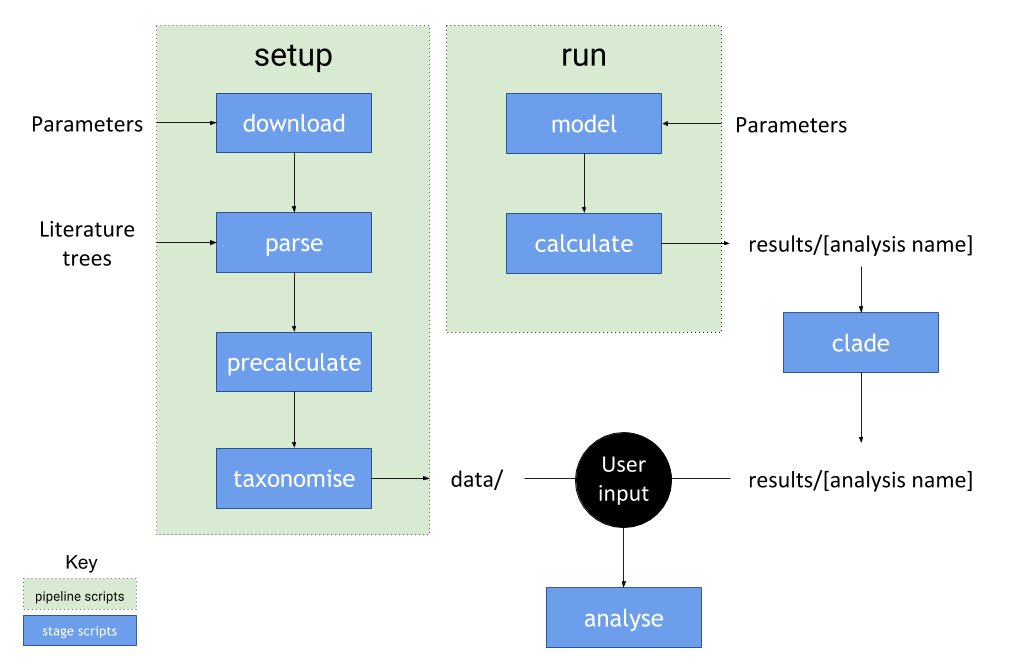
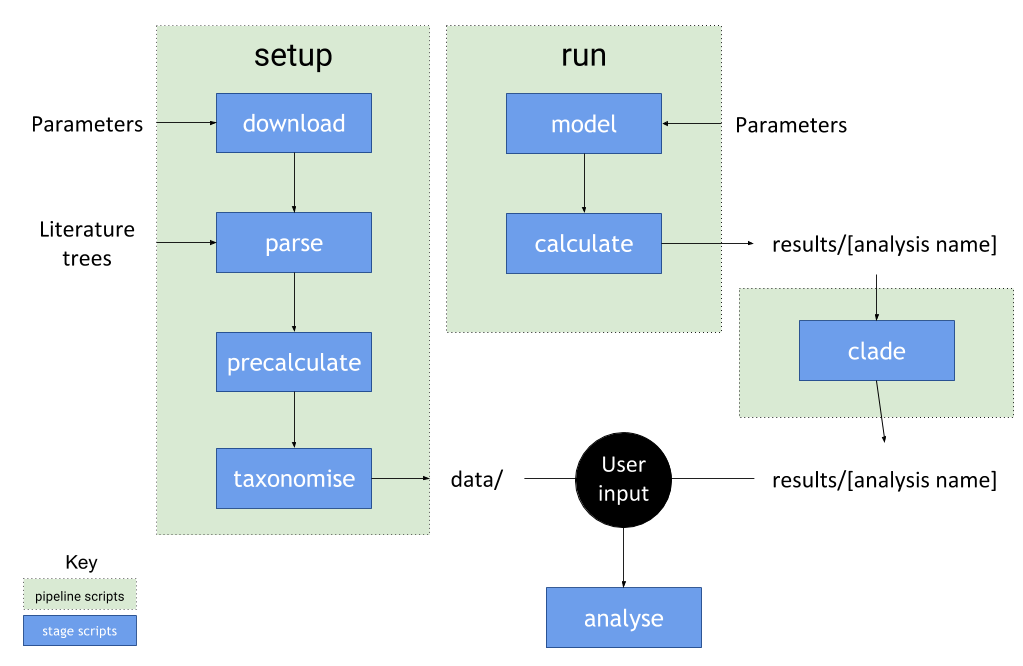
New description of pipeline

Changed region(s): [[0.697, 0.4204, 1.0, 0.6306], [0.7273, 0.6907, 0.9697, 0.7508], [0.7273, 0.3604, 0.9697, 0.3904]]

diff --git a/README.md b/README.md
@@ -38,21 +38,25 @@ Run the `install_deps.R` script to install all dependent packages automatically.
 ------ treebase/
 ---- parsed_trees/
 ---- treestats/
+-- parameters/
+---- [all analysis parameters]
 -- stages/
 ---- [all stage .R scripts]
 -- tools/
 ---- [all tool .R scripts]
 -- results/
------ [any folders named by analysis as specified in run.R]
+----- [all folders named by analysis as specified in run.R]
 -- other/
 -- sanity_checks/
 ```
 
 **Pipeline**
 
-The pipeline works by calling either `setup.R` or `run.R`. These scripts call
+The pipeline works by calling the pipeline scripts `setup.R`, `run.R` and `clade.R`. These scripts call
 stage scripts which can be found in [`/stages`](https://github.com/DomBennett/Project-EDBMM/tree/master/stages).
 The stages scripts depend on custom functions found in the [`/tools`](https://github.com/DomBennett/Project-EDBMM/tree/master/tools) folder.
+
+![flow-diagram](https://raw.githubusercontent.com/DomBennett/Project-EDBMM/master/other/flow_diagram.png "Flow diagram")
 
 **setup.R**
 
@@ -60,38 +64,30 @@ This phase of the pipeline sources and calculates statistics from empirical
 trees:
 
 1. Download trees from TreeBase
-2. Parse trees
+2. Parse trees (make ultramteric using different methods)
 3. Calculate tree shape statistics
+4. Determine the taxonomic identities of downloaded trees
 
 **run.R**
 
-This reproduces all the results:
+This phase models trees for determining how model parameters affect tree shape:
 
-1. Model trees according to parameters in `run.R`
-2. Calculate tree shape statistics
+1. Read in parameters from [`parameters/`](https://github.com/DomBennett/Project-EDBMM/tree/master/parameters)
+2. Model trees according to parameters in `run.R`
+3. Calculate tree shape statistics
 
-In the this script you will need to specify the parameters in a list structure.
-For example the 10,000 trees analysis used in the publication was called
-analysis_5 and was simulated with this list object:
+**clade.R**
 
-```{R}
-analysis.5 <- list (n.model = 10000, seed = 2,
-                    max.birth = 2, min.birth = 2,
-                    max.death = 1, min.death = 1,
-                    bias = 'FP', stop.by = 'n',
-                    max.ntaxa = 500, min.ntaxa = 50,
-                    min.sig = -1, max.sig = 1,
-                    min.eps = -1, max.eps = 1,
-                    reference = TRUE,
-                    iterations = 100)
-```
+This phase takes results from `run.R` and continues the simulation of trees
+with the same parameters while recording trees at set time points in order to
+generate clade sizes through time.
 
-The results from this analysis were subsequently supplemented with
-results generated outside of the pipeline structure from an additional set of
-analyses looking at the extremes of the scenario parameter space (analysis
-  parameters in latest version of run.R) and with the results from the
-taxonomise and clade stages [first 1000 results]. All results described in the
-publication were then generated with the `compare.R` script.
+1. Simulate clades
+
+**Analysis**
+
+The final stage script is user interactive. All plots and analysis presented in the publication
+are generated with this script.
 
 **Testing**
 
